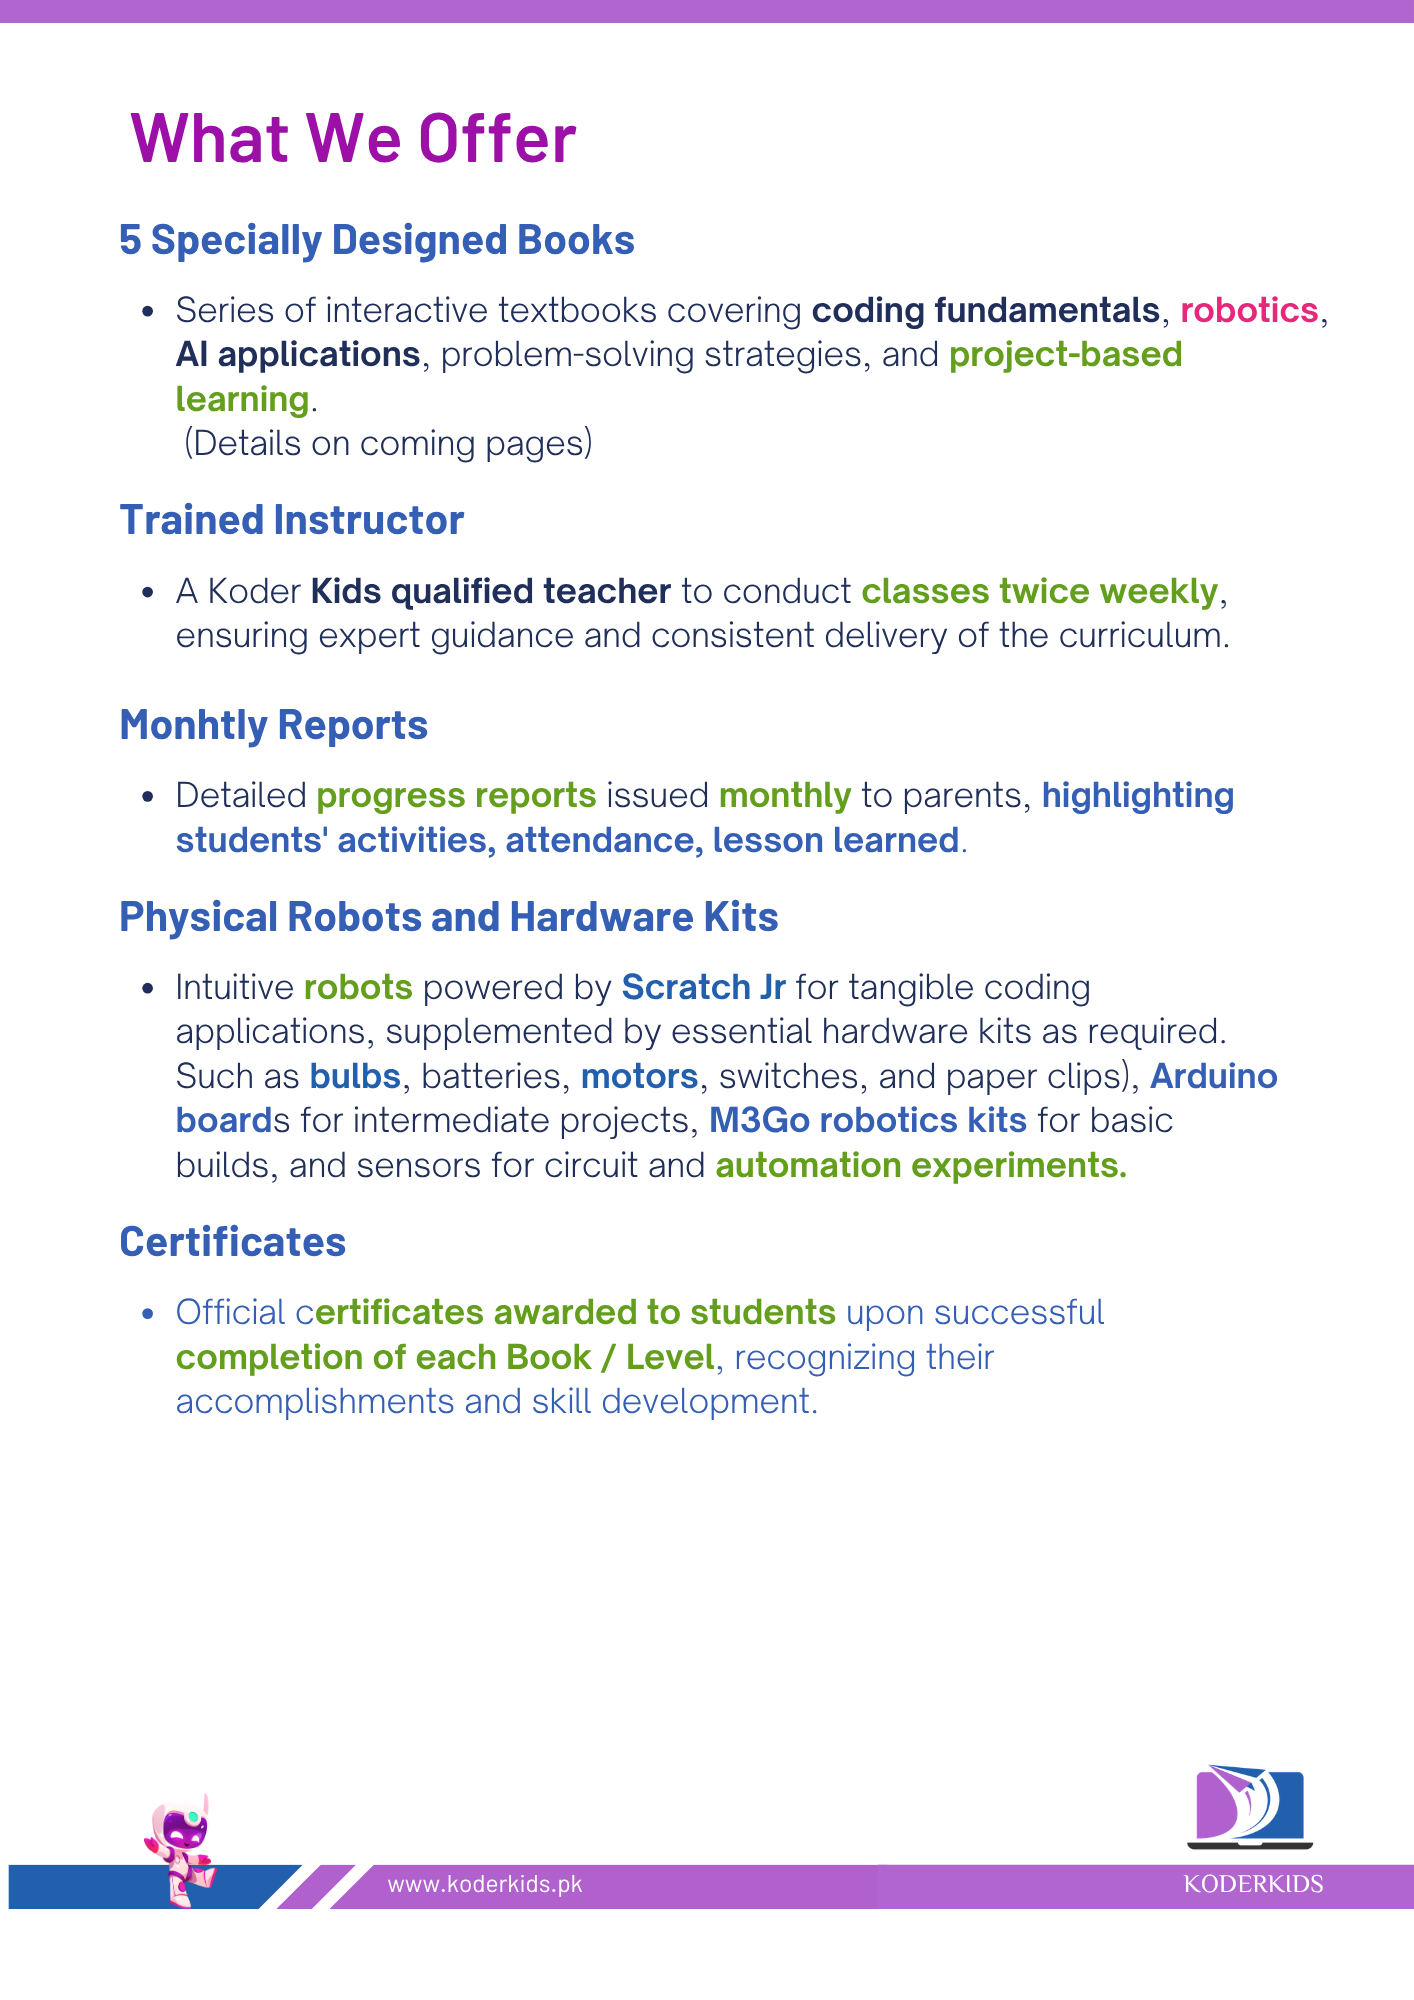
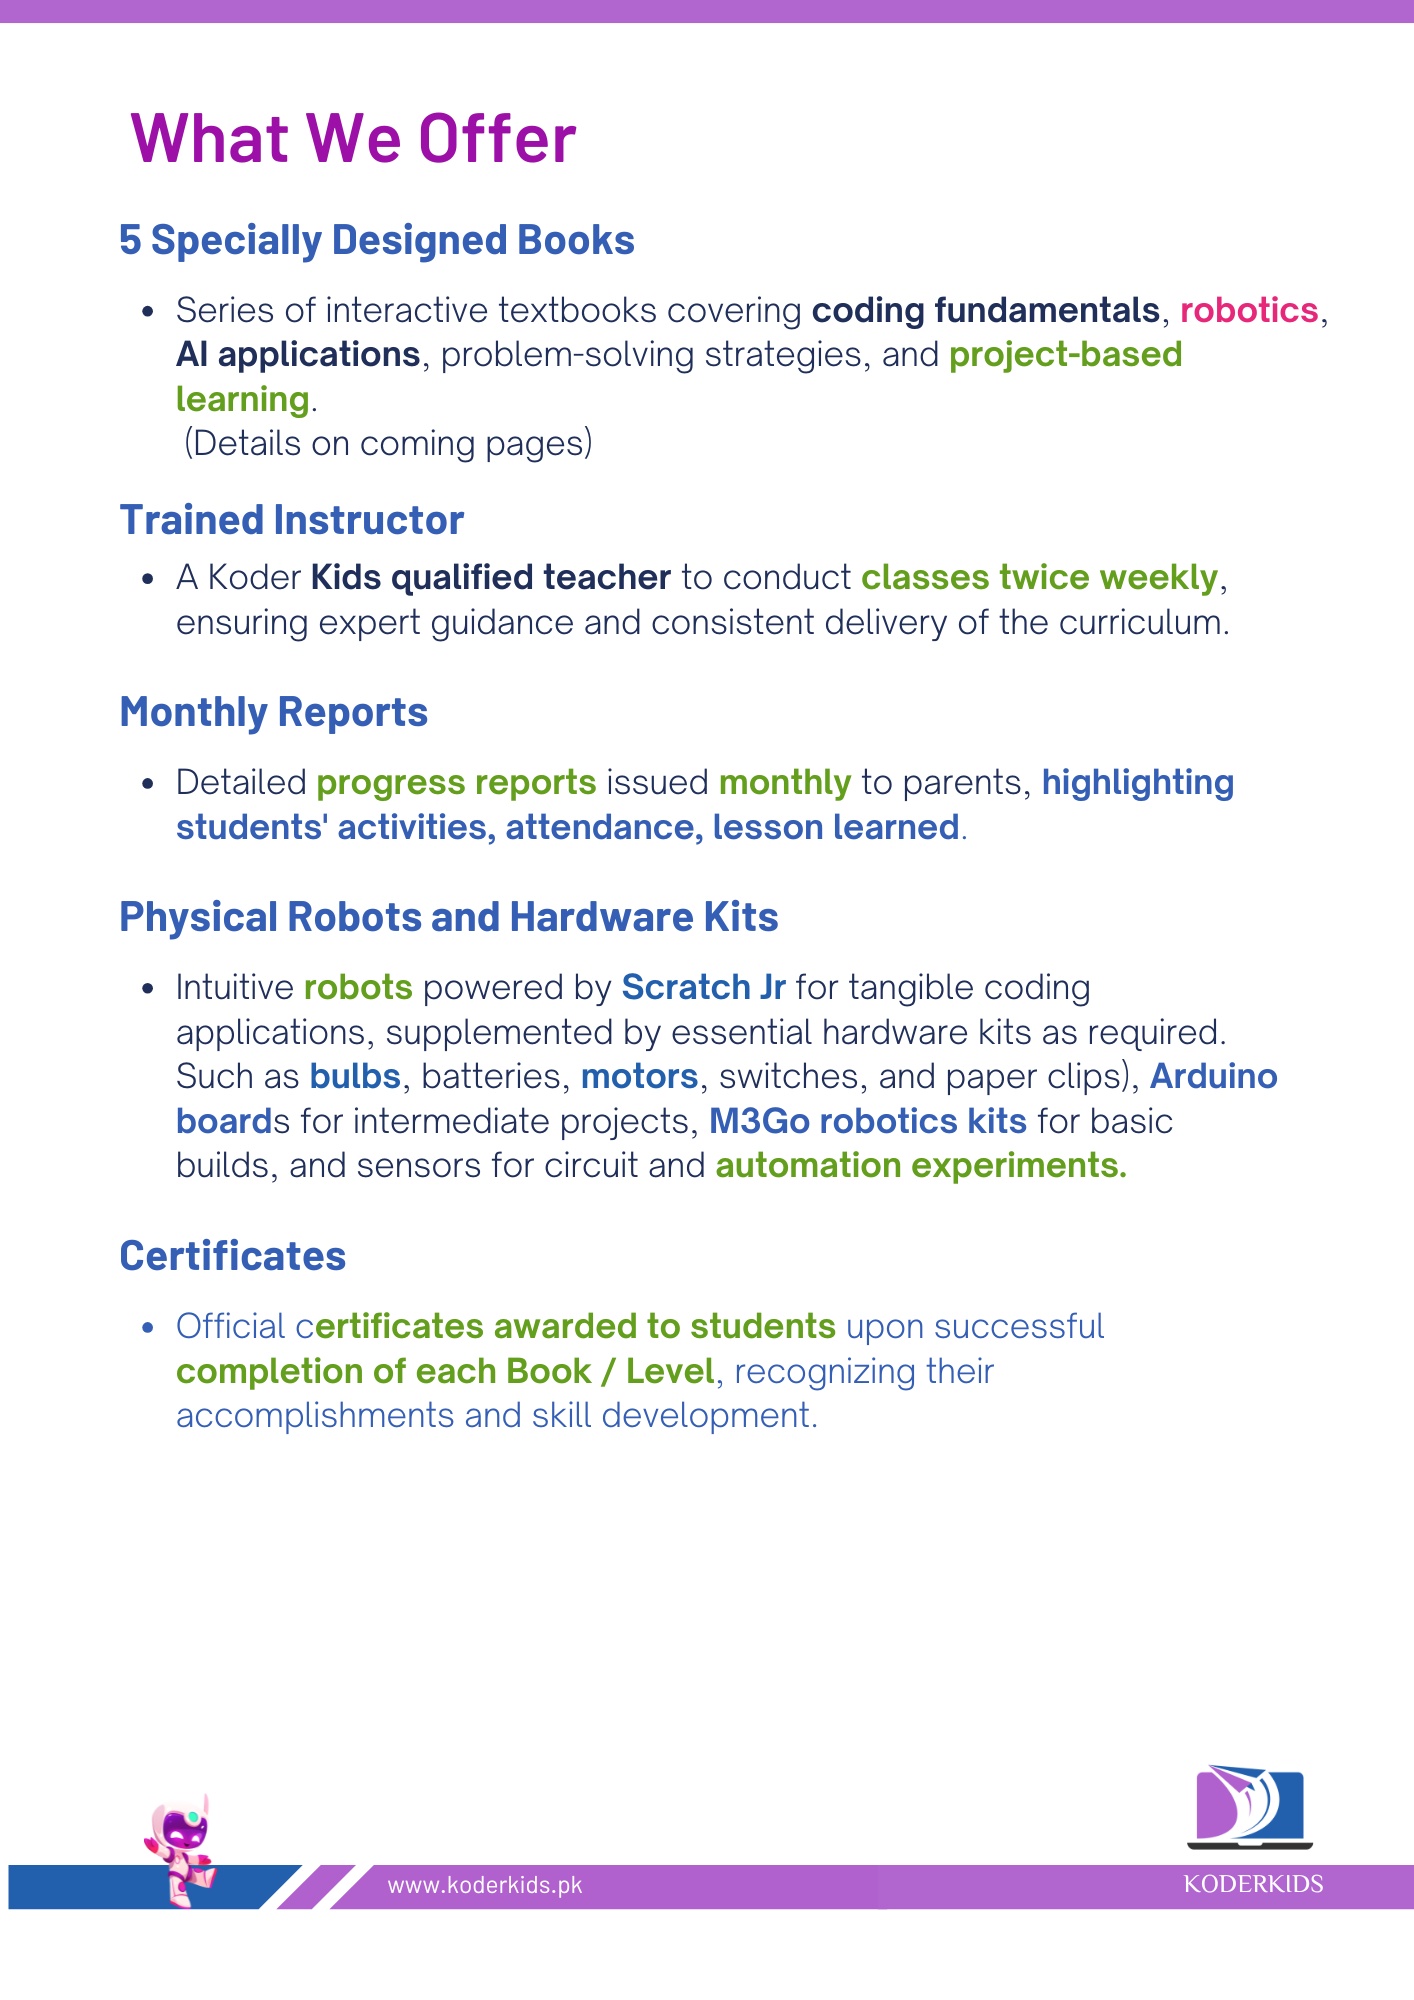
Update frontend API URL, constants, and OCI provisioning scripts

diff --git a/frontend/src/utils/constants.js b/frontend/src/utils/constants.js
@@ -3,7 +3,7 @@
 // ============================================
 
 // API Configuration
-export const API_URL = process.env.REACT_APP_API_URL || 'https://koderkids-erp.onrender.com';
+export const API_URL = process.env.REACT_APP_API_URL || 'https://personal-gateway.onrender.com/koderkids';
 
 // User Roles
 export const ROLES = {
